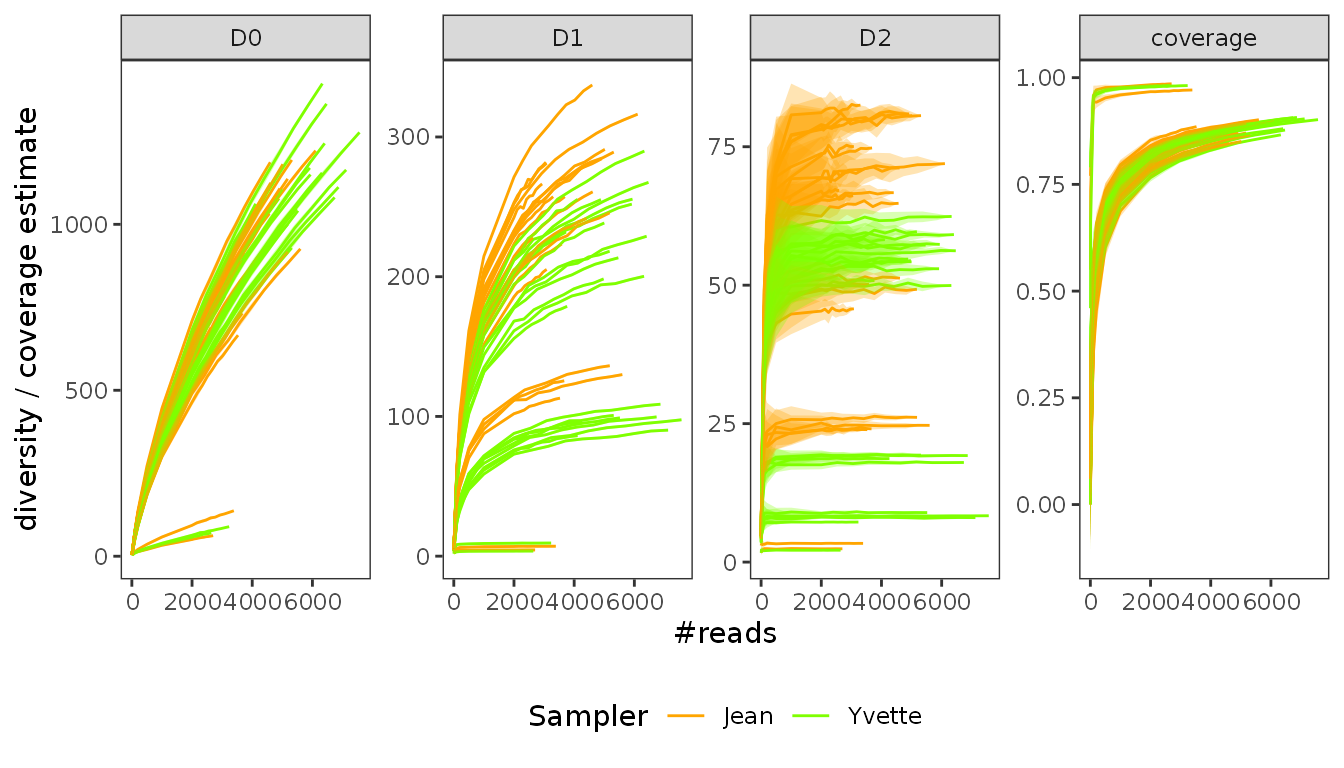
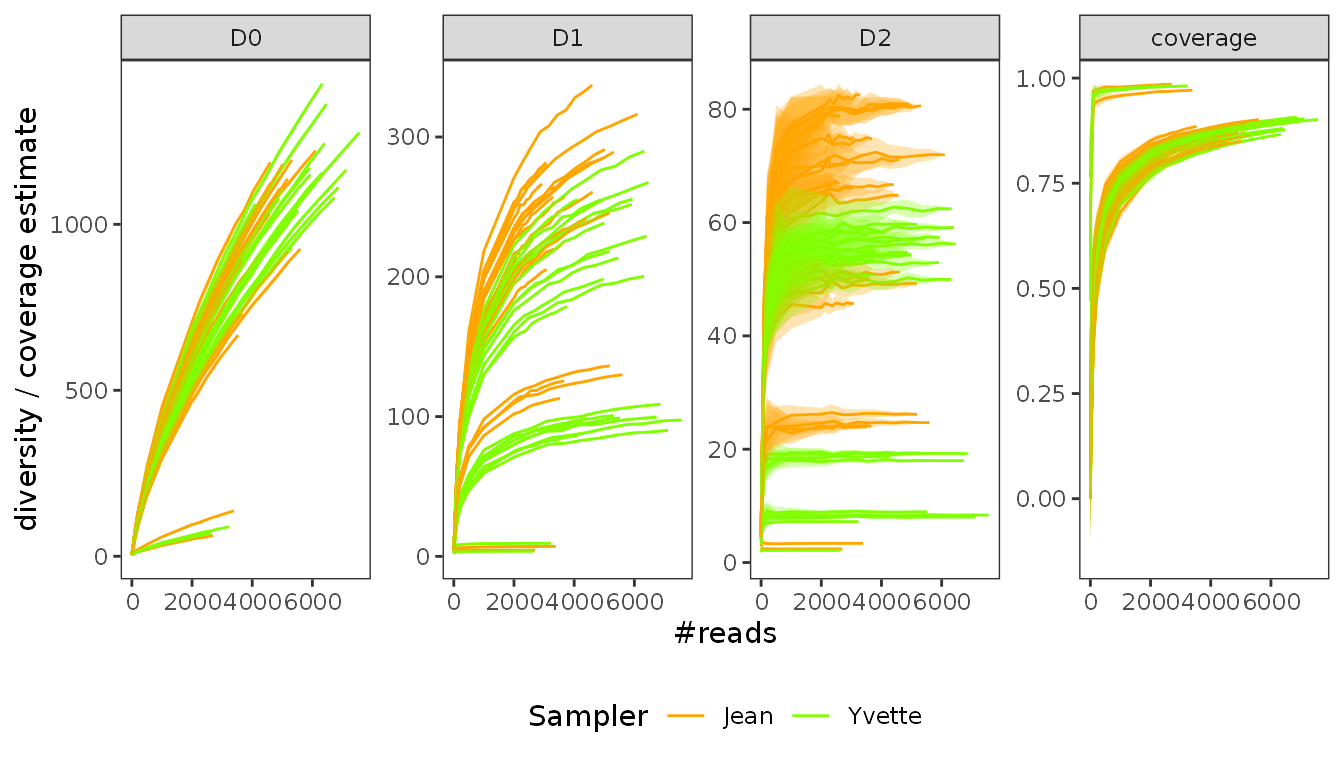
Deploy metabaRfactory/metabaR to github.com/metabaRfactory/metabaR.git:gh-pages

diff --git a/articles/metabaRF-vignette.html b/articles/metabaRF-vignette.html
@@ -89,7 +89,7 @@
     <div class="page-header toc-ignore">
       <h1 data-toc-skip>Let’s metabaR!</h1>
             
-            <h4 class="date">2020-12-09</h4>
+            <h4 class="date">2020-12-10</h4>
       
       <small class="dont-index">Source: <a href="https://github.com/metabaRfactory/metabaR/blob/master/vignettes/metabaRF-vignette.Rmd"><code>vignettes/metabaRF-vignette.Rmd</code></a></small>
       <div class="hidden name"><code>metabaRF-vignette.Rmd</code></div>
@@ -398,19 +398,19 @@ These are the value of <span class="math inline">\(q\)</span> for which <code>me
 <code class="sourceCode R"><span class="va">soil_euk_h20.raref</span> <span class="op">=</span> <span class="fu"><a href="../reference/hill_rarefaction.html">hill_rarefaction</a></span><span class="op">(</span><span class="va">soil_euk_h20</span>, nboot <span class="op">=</span> <span class="fl">20</span>, nsteps <span class="op">=</span> <span class="fl">10</span><span class="op">)</span>
 <span class="fu"><a href="https://rdrr.io/r/utils/head.html">head</a></span><span class="op">(</span><span class="va">soil_euk_h20.raref</span><span class="op">$</span><span class="va">hill_table</span><span class="op">)</span>
 <span class="co">#&gt;      pcr_id reads     D0     D0.sd        D1    D1.sd        D2     D2.sd</span>
-<span class="co">#&gt; 1 H20-As_r1     5   4.70 0.5712406  4.600938 1.171613  4.603175 0.7237377</span>
-<span class="co">#&gt; 2 H20-As_r1    10   8.90 1.1652874  8.504071 1.201537  8.345238 1.6847612</span>
-<span class="co">#&gt; 3 H20-As_r1   100  52.95 4.1861300 38.510393 1.120176 27.353667 4.2083963</span>
-<span class="co">#&gt; 4 H20-As_r1   200  81.95 2.8186410 50.966470 1.057755 32.261448 2.9351486</span>
-<span class="co">#&gt; 5 H20-As_r1   500 139.40 6.6046236 64.412290 1.081002 34.437952 3.1333687</span>
-<span class="co">#&gt; 6 H20-As_r1  1000 203.85 9.2182599 74.042489 1.061264 35.469988 2.2298214</span>
+<span class="co">#&gt; 1 H20-As_r1     5   4.75 0.5501196  4.665165 1.164772  4.674603 0.6860665</span>
+<span class="co">#&gt; 2 H20-As_r1    10   8.70 1.0310955  8.161205 1.210541  7.846230 1.7004190</span>
+<span class="co">#&gt; 3 H20-As_r1   100  51.45 3.6917404 37.497100 1.123883 27.015020 4.1578760</span>
+<span class="co">#&gt; 4 H20-As_r1   200  81.90 5.8119659 50.037314 1.093164 31.185856 3.2062884</span>
+<span class="co">#&gt; 5 H20-As_r1   500 136.95 6.3864577 63.343827 1.053823 34.275547 2.3830450</span>
+<span class="co">#&gt; 6 H20-As_r1  1000 201.55 7.7219782 73.476224 1.051255 35.658404 2.7221740</span>
 <span class="co">#&gt;   coverage coverage.sd</span>
-<span class="co">#&gt; 1  0.12000 0.228496228</span>
-<span class="co">#&gt; 2  0.20500 0.206410424</span>
-<span class="co">#&gt; 3  0.64200 0.055402831</span>
-<span class="co">#&gt; 4  0.74750 0.021429198</span>
-<span class="co">#&gt; 5  0.84300 0.010652403</span>
-<span class="co">#&gt; 6  0.89685 0.007855772</span></code></pre></div>
+<span class="co">#&gt; 1  0.10000 0.220047842</span>
+<span class="co">#&gt; 2  0.22500 0.151744245</span>
+<span class="co">#&gt; 3  0.66550 0.037763112</span>
+<span class="co">#&gt; 4  0.74375 0.034138842</span>
+<span class="co">#&gt; 5  0.84700 0.014889063</span>
+<span class="co">#&gt; 6  0.89745 0.009259277</span></code></pre></div>
 <p>The <code>hill_rarefaction</code> function produces an object with several elements. The most relevant one is the <code>hill_table</code> a table indicating the <code>pcr_id</code>, the sequencing depth at which the <em>pcr</em> was resampled, and the corresponding diversity / coverage indices. The output of <code>hill_rarefaction</code> can be used to draw rarefaction curves.</p>
 <div class="sourceCode" id="cb16"><pre class="downlit sourceCode r">
 <code class="sourceCode R"><span class="fu"><a href="../reference/hill_rarefaction.html">gghill_rarefaction</a></span><span class="op">(</span><span class="va">soil_euk_h20.raref</span><span class="op">)</span> </code></pre></div>

diff --git a/articles/metabaRF-vignette_karst.html b/articles/metabaRF-vignette_karst.html
@@ -89,7 +89,7 @@
     <div class="page-header toc-ignore">
       <h1 data-toc-skip>The karst dataset: sampler effect and technical reproducibility</h1>
             
-            <h4 class="date">2020-12-09</h4>
+            <h4 class="date">2020-12-10</h4>
       
       <small class="dont-index">Source: <a href="https://github.com/metabaRfactory/metabaR/blob/master/vignettes/metabaRF-vignette_karst.Rmd"><code>vignettes/metabaRF-vignette_karst.Rmd</code></a></small>
       <div class="hidden name"><code>metabaRF-vignette_karst.Rmd</code></div>
@@ -570,12 +570,12 @@ ctcaaacttccatgtgattacatcacatagtccctctaagaagtgattcaaatttgaaataagaacactagttagcaggt
   <span class="fu"><a href="https://ggplot2.tidyverse.org/reference/labs.html">labs</a></span><span class="op">(</span>color <span class="op">=</span> <span class="st">"Sites"</span>, shape<span class="op">=</span><span class="st">"Sampler"</span><span class="op">)</span> <span class="op">+</span> 
   <span class="fu"><a href="https://ggplot2.tidyverse.org/reference/scale_shape.html">scale_shape</a></span><span class="op">(</span>labels<span class="op">=</span><span class="fu"><a href="https://rdrr.io/r/base/c.html">c</a></span><span class="op">(</span><span class="st">"Jean"</span>, <span class="st">"Yvette"</span><span class="op">)</span><span class="op">)</span></code></pre></div>
 <p><img src="metabaRF-vignette_karst_files/figure-html/pcrsalyer3-1.png" width="480" style="display: block; margin: auto;"></p>
-<p>The variability across sites is hence far larger than between samplers and technical replicates. But the sampler effect is not negligible.</p>
+<p>The variability across sites is hence far larger than between samplers and technical replicates. But the sampler effect is not negligible. One can observe, however, some PCR outliers (site D1-2 sampled by Jean, or site C sampled by Yvette) that can be flagged with the function <code>pcrslayer</code>. We refer to the <a href="https://metabarfactory.github.io/metabaR/articles/metabaRF-vignette.html">“Let’s metabaR” tutorial</a> for further usage description for this function.</p>
 </div>
 <div id="data-final-cleaning-and-aggregation" class="section level1">
 <h1 class="hasAnchor">
 <a href="#data-final-cleaning-and-aggregation" class="anchor"></a>Data final cleaning and aggregation</h1>
-<p>We refer to the tutorial using the <code>soil_euk</code> dataset for these last steps.</p>
+<p>We presented here a succinct description of the data cleaning process for the <code>karst_euk</code> dataset. Note that not all steps are shown here, and we refer the user to the <a href="https://metabarfactory.github.io/metabaR/articles/metabaRF-vignette.html">“Let’s metabaR” tutorial</a>, based on the <code>soil_euk</code> dataset for a complete process of signal flagging and cleaning, including the last steps of the process, i.e. removal of flagged MOTUs/pcrs and data aggregation.</p>
 </div>
 <div id="references" class="section level1 unnumbered">
 <h1 class="hasAnchor">
